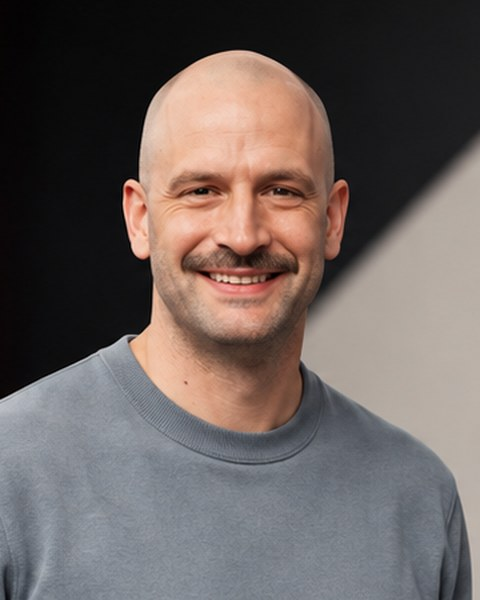
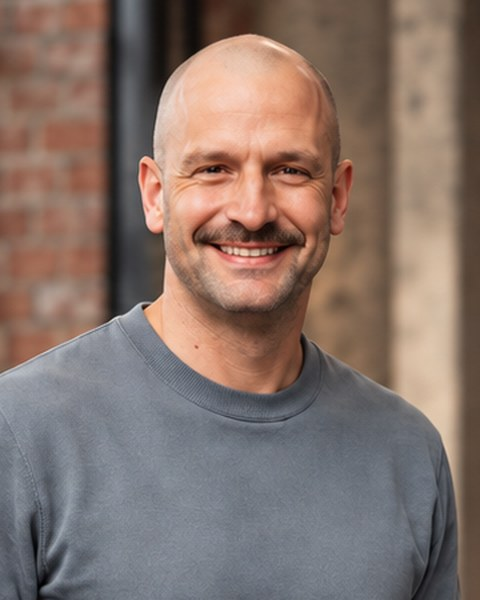
redesign final

diff --git a/src/components/sections/Hero.js b/src/components/sections/Hero.js
@@ -60,12 +60,13 @@ const Bg = styled(motion.div)`
     aspect-ratio: 4 / 4.2;
     max-height: 72vh;
     width: 100%;
+    overflow: hidden;
 
     img {
       object-position: 50% 20%;
     }
     &::after {
-      background: linear-gradient(0deg, rgba(17, 17, 17, 1) 0%, rgba(17, 17, 17, 0) 30%);
+      background: linear-gradient(0deg, rgba(17, 17, 17, 1) 0%, rgba(17, 17, 17, 0.55) 16%, rgba(17, 17, 17, 0) 38%);
     }
   }
 `;
